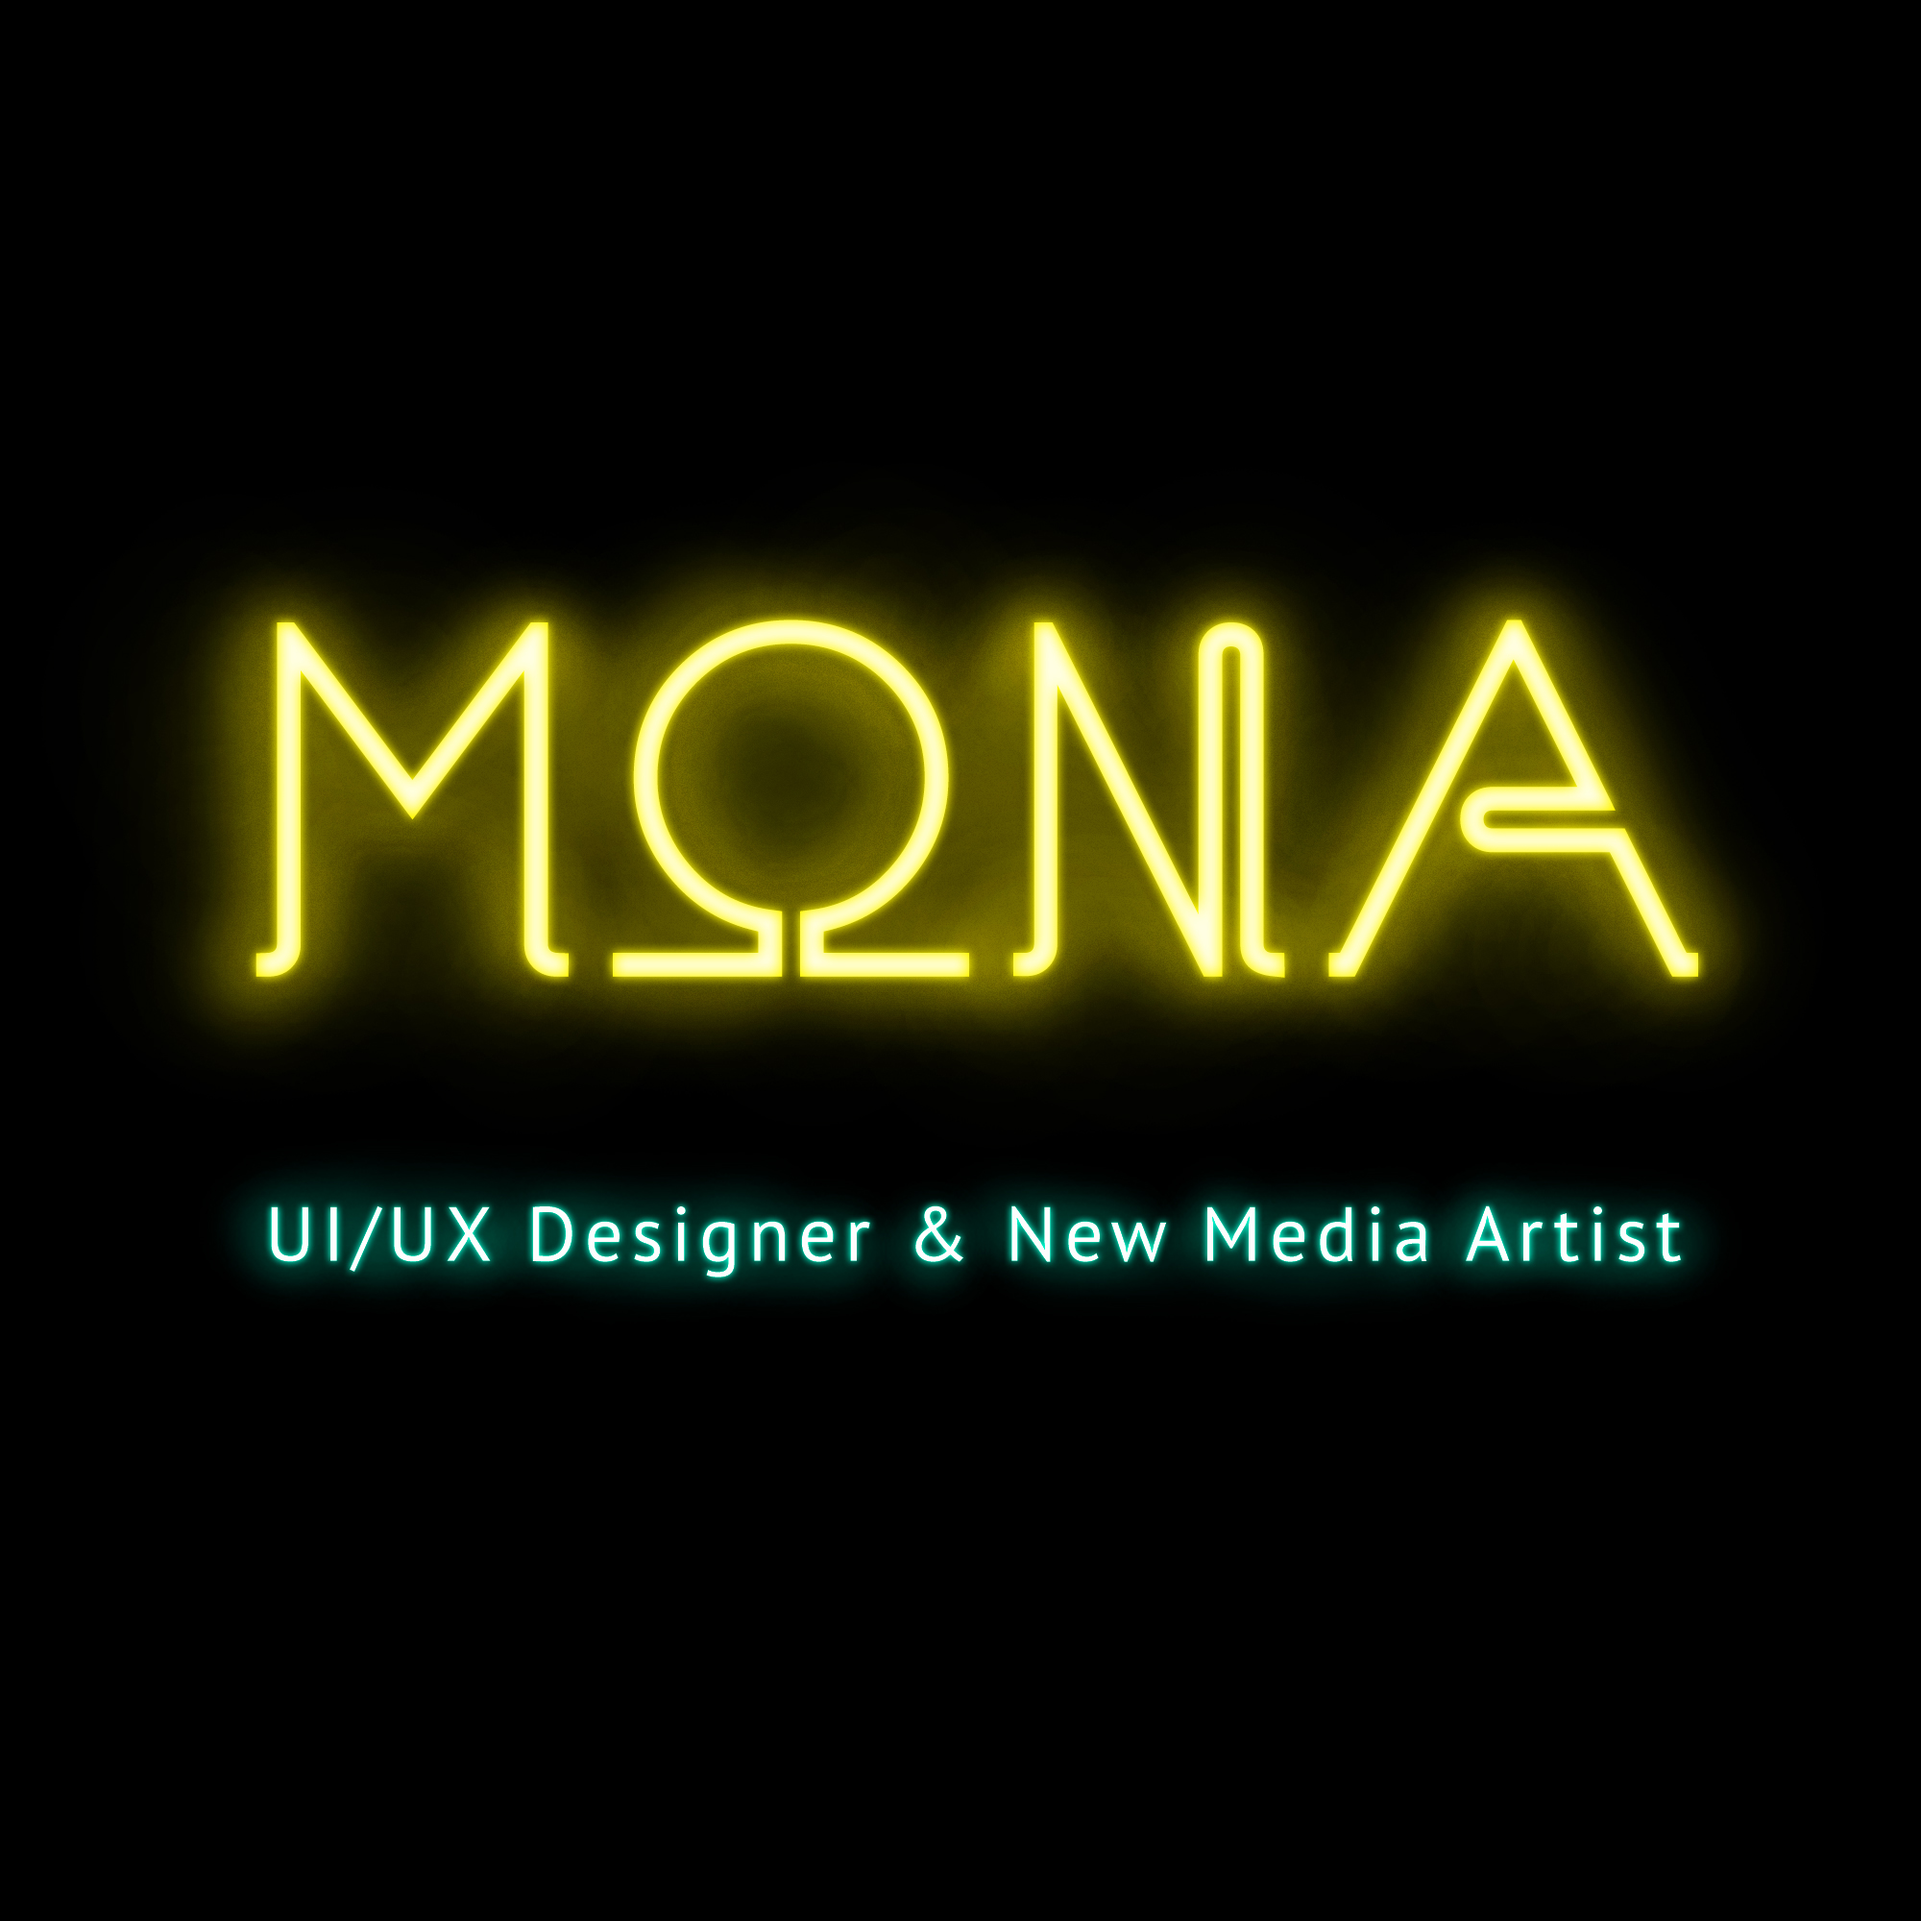
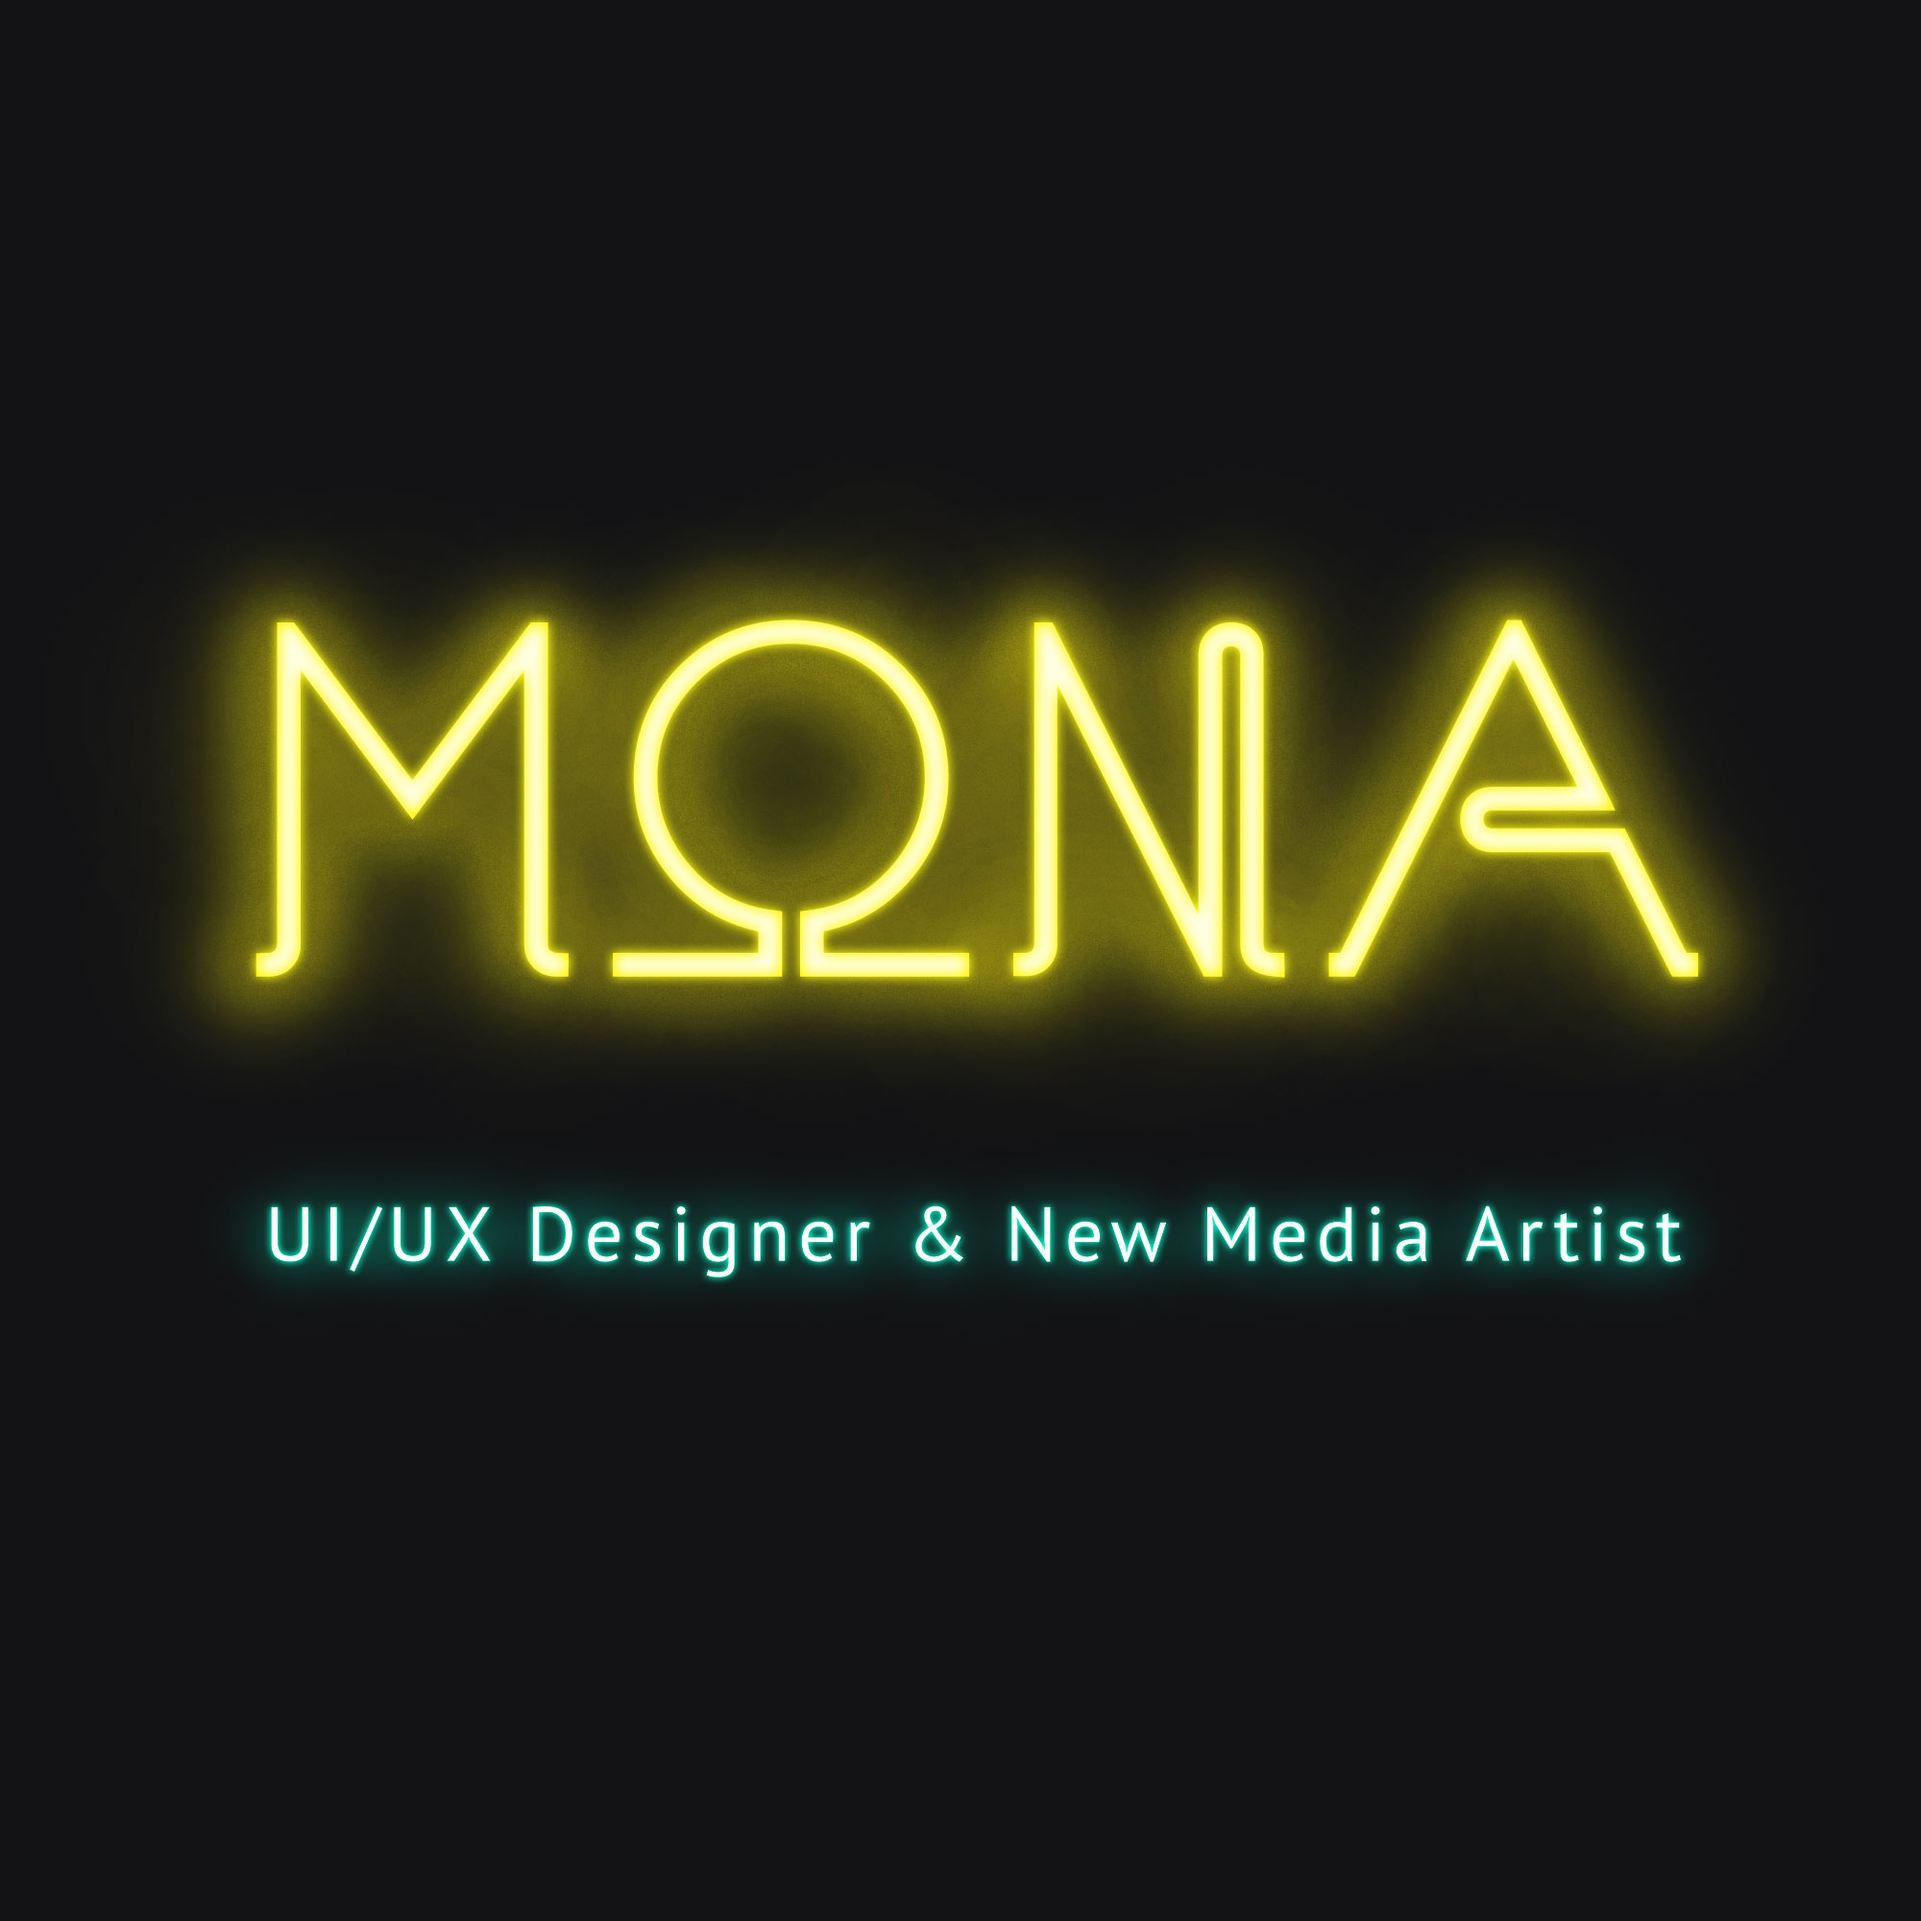
bg color

diff --git a/style.css b/style.css
@@ -9,7 +9,7 @@ body{
 }
 
 #home_body{
-	background: black;
+	background: #121314;
 }
 
 #about_me{
@@ -62,7 +62,7 @@ body{
 #home{
 	width: auto;
 	height: auto;
-	background: black;
+	background: #121314;
 }
 
 #home p{
@@ -192,7 +192,7 @@ body{
 #box1:hover{
 	 /*background: linear-gradient( rgba(0, 0, 0, 0.9), rgba(0, 0, 0, 0.9) ), url(image/recipedia.png);*/
 	 background-size: 400px 320px;
-	 background: black;
+	 background: #121314;
 }
 #box1:hover p{visibility: visible;}
 #box1:hover h3{visibility: visible;}
@@ -202,7 +202,7 @@ body{
 #box2:hover{
 	 /*background: linear-gradient( rgba(0, 0, 0, 0.9), rgba(0, 0, 0, 0.9) ), url(image/animaze.png);*/
 	 background-size: 400px 320px;
-	 background: black;
+	 background: #121314;
 }
 #box2:hover p{visibility: visible;}
 
@@ -214,7 +214,7 @@ body{
 #box4:hover{
 	 /*background: linear-gradient( rgba(0, 0, 0, 0.9), rgba(0, 0, 0, 0.9) ), url(image/cycleccoon.jpg);*/
 	 background-size: 400px 320px;
-	 background: black;
+	 background: #121314;
 }
 #box4:hover p{visibility: visible;}
 
@@ -223,7 +223,7 @@ body{
 #box5:hover{
 	 /*background: linear-gradient( rgba(0, 0, 0, 0.9), rgba(0, 0, 0, 0.9) ), url(image/moodi.png);*/
 	 background-size: 400px 320px;
-	 background: black;
+	 background: #121314;
 }
 #box5:hover p{visibility: visible;}
 
@@ -232,7 +232,7 @@ body{
 #box6:hover{
 	 /*background: linear-gradient( rgba(0, 0, 0, 0.9), rgba(0, 0, 0, 0.9) ), url(mage/river.png);*/
 	 background-size: 400px 320px;
-	 background: black;
+	 background: #121314;
 }
 #box6:hover p{visibility: visible;}
 
@@ -241,7 +241,7 @@ body{
 #box7:hover{
 	 /*background: linear-gradient( rgba(0, 0, 0, 0.9), rgba(0, 0, 0, 0.9) ), url(image/corner.png);*/
 	 background-size: 400px 320px;
-	 background: black;
+	 background: #121314;
 }
 #box7:hover p{visibility: visible;}
 
@@ -250,7 +250,7 @@ body{
 #box8:hover{
 	 /*background: linear-gradient( rgba(0, 0, 0, 0.9), rgba(0, 0, 0, 0.9) ), url(image/salton.jpg);*/
 	 background-size: 400px 320px;
-	 background: black;
+	 background: #121314;
 }
 #box8:hover p{visibility: visible;}
 
@@ -259,7 +259,7 @@ body{
 #box9:hover{
 	 /*background: linear-gradient( rgba(0, 0, 0, 0.9), rgba(0, 0, 0, 0.9) ), url(image/cool.png);*/
 	 background-size: 400px 320px;
-	 background: black;
+	 background: #121314;
 }
 #box9:hover p{visibility: visible;}
 
@@ -268,7 +268,7 @@ body{
 #box10:hover{
 	 /*background: linear-gradient( rgba(0, 0, 0, 0.9), rgba(0, 0, 0, 0.9) ), url(image/triangle.jpg);*/
 	 background-size: 400px 320px;
-	 background: black;
+	 background: #121314;
 }
 #box10:hover p{visibility: visible;}
 
@@ -277,7 +277,7 @@ body{
 #box11:hover{
 	 /*background: linear-gradient( rgba(0, 0, 0, 0.9), rgba(0, 0, 0, 0.9) ), url(image/solemate.jpg);*/
 	 background-size: 400px 320px;
-	 background: black;
+	 background: #121314;
 }
 #box11:hover p{visibility: visible;}
 
@@ -286,7 +286,7 @@ body{
 #box12:hover{
 	 /*background: linear-gradient( rgba(0, 0, 0, 0.9), rgba(0, 0, 0, 0.9) ), url(image/solemate.jpg);*/
 	 background-size: 400px 320px;
-	 background: black;
+	 background: #121314;
 }
 #box12:hover p{visibility: visible;}
 
@@ -295,7 +295,7 @@ body{
 #box13:hover{
 	 /*background: linear-gradient( rgba(0, 0, 0, 0.9), rgba(0, 0, 0, 0.9) ), url(image/solemate.jpg);*/
 	 background-size: 400px 320px;
-	 background: black;
+	 background: #121314;
 }
 #box13:hover p{visibility: visible;}
 
@@ -304,7 +304,7 @@ body{
 #box14:hover{
 	 /*background: linear-gradient( rgba(0, 0, 0, 0.9), rgba(0, 0, 0, 0.9) ), url(image/solemate.jpg);*/
 	 background-size: 400px 320px;
-	 background: black;
+	 background: #121314;
 }
 #box14:hover p{visibility: visible;}
 
@@ -313,7 +313,7 @@ body{
 #box15:hover{
 	 /*background: linear-gradient( rgba(0, 0, 0, 0.9), rgba(0, 0, 0, 0.9) ), url(image/solemate.jpg);*/
 	 background-size: 400px 320px;
-	 background: black;
+	 background: #121314;
 }
 #box15:hover p{visibility: visible;}
 
@@ -381,7 +381,7 @@ p{
 }
 
 #home_body{
-	background: black;
+	background: #121314;
 }
 
 #about_me{
@@ -440,7 +440,7 @@ p{
 #home{
 	width: auto;
 	height: auto;
-	background: black;
+	background: #121314;
 }
 
 #home p{
@@ -636,7 +636,7 @@ p{
 }
 
 #home_body{
-	background: black;
+	background: #121314;
 }
 
 #about_me{
@@ -694,7 +694,7 @@ p{
 #home{
 	width: auto;
 	height: auto;
-	background: black;
+	background: #121314;
 }
 
 #home p{

diff --git a/CDC.html b/CDC.html
@@ -20,7 +20,7 @@
 			width: 100%;
 			height: 100%;
 			z-index: 9999;
-			background: url(image/neon-rocket.gif) center no-repeat #000;
+			background: url(image/neon-rocket.gif) center no-repeat #121314;
 			background-size: 25%;
 		}
     </style>

diff --git a/LB.html b/LB.html
@@ -20,7 +20,7 @@
 			width: 100%;
 			height: 100%;
 			z-index: 9999;
-			background: url(image/neon-rocket.gif) center no-repeat #000;
+			background: url(image/neon-rocket.gif) center no-repeat #121314;
 			background-size: 25%;
 		}
     </style>

diff --git a/animaze.html b/animaze.html
@@ -20,7 +20,7 @@
 			width: 100%;
 			height: 100%;
 			z-index: 9999;
-			background: url(image/neon-rocket.gif) center no-repeat #000;
+			background: url(image/neon-rocket.gif) center no-repeat #121314;
 			background-size: 25%;
 		}
     </style>

diff --git a/cool.html b/cool.html
@@ -20,7 +20,7 @@
 			width: 100%;
 			height: 100%;
 			z-index: 9999;
-			background: url(image/neon-rocket.gif) center no-repeat #000;
+			background: url(image/neon-rocket.gif) center no-repeat #121314;
 			background-size: 25%;
 		}
     </style>

diff --git a/cycleccoon.html b/cycleccoon.html
@@ -20,7 +20,7 @@
 			width: 100%;
 			height: 100%;
 			z-index: 9999;
-			background: url(image/neon-rocket.gif) center no-repeat #000;
+			background: url(image/neon-rocket.gif) center no-repeat #121314;
 			background-size: 25%;
 		}
     </style>

diff --git a/flower_and_smoke.html b/flower_and_smoke.html
@@ -20,7 +20,7 @@
 			width: 100%;
 			height: 100%;
 			z-index: 9999;
-			background: url(image/neon-rocket.gif) center no-repeat #000;
+			background: url(image/neon-rocket.gif) center no-repeat #121314;
 			background-size: 25%;
 		}
     </style>

diff --git a/meetful.html b/meetful.html
@@ -20,7 +20,7 @@
 			width: 100%;
 			height: 100%;
 			z-index: 9999;
-			background: url(image/neon-rocket.gif) center no-repeat #000;
+			background: url(image/neon-rocket.gif) center no-repeat #121314;
 			background-size: 25%;
 		}
     </style>

diff --git a/moodi.html b/moodi.html
@@ -20,7 +20,7 @@
 			width: 100%;
 			height: 100%;
 			z-index: 9999;
-			background: url(image/neon-rocket.gif) center no-repeat #000;
+			background: url(image/neon-rocket.gif) center no-repeat #121314;
 			background-size: 25%;
 		}
     </style>

diff --git a/recipedia.html b/recipedia.html
@@ -20,7 +20,7 @@
 			width: 100%;
 			height: 100%;
 			z-index: 9999;
-			background: url(image/neon-rocket.gif) center no-repeat #000;
+			background: url(image/neon-rocket.gif) center no-repeat #121314;
 			background-size: 25%;
 		}
     </style>

diff --git a/solemate.html b/solemate.html
@@ -20,7 +20,7 @@
 			width: 100%;
 			height: 100%;
 			z-index: 9999;
-			background: url(image/neon-rocket.gif) center no-repeat #000;
+			background: url(image/neon-rocket.gif) center no-repeat #121314;
 			background-size: 25%;
 		}
     </style>

diff --git a/the_lost_city.html b/the_lost_city.html
@@ -20,7 +20,7 @@
 			width: 100%;
 			height: 100%;
 			z-index: 9999;
-			background: url(image/neon-rocket.gif) center no-repeat #000;
+			background: url(image/neon-rocket.gif) center no-repeat #121314;
 			background-size: 25%;
 		}
     </style>
